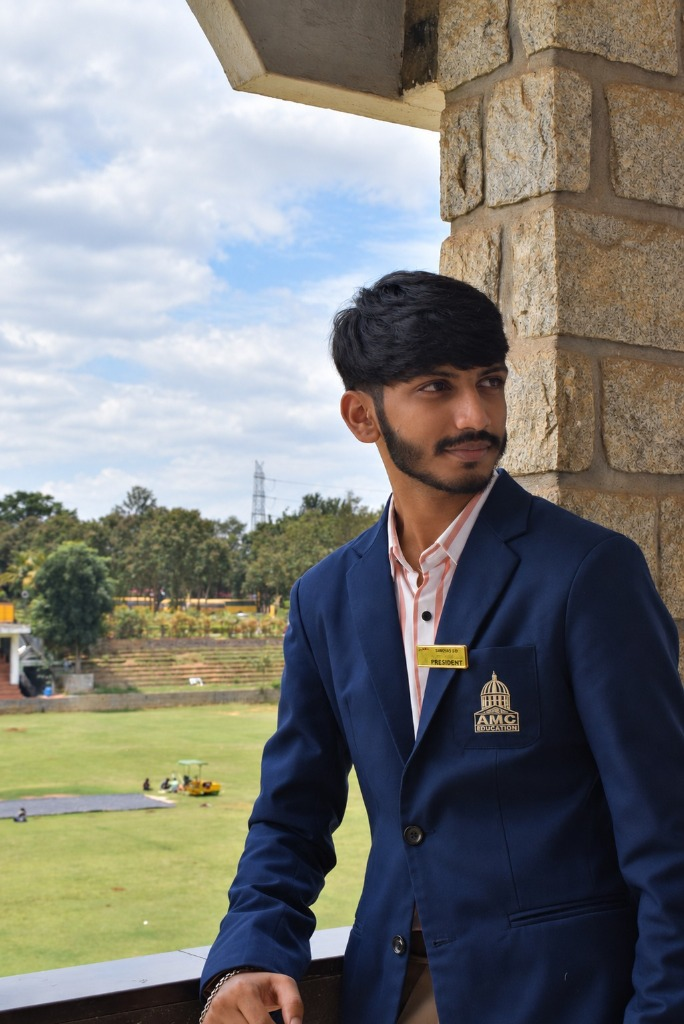
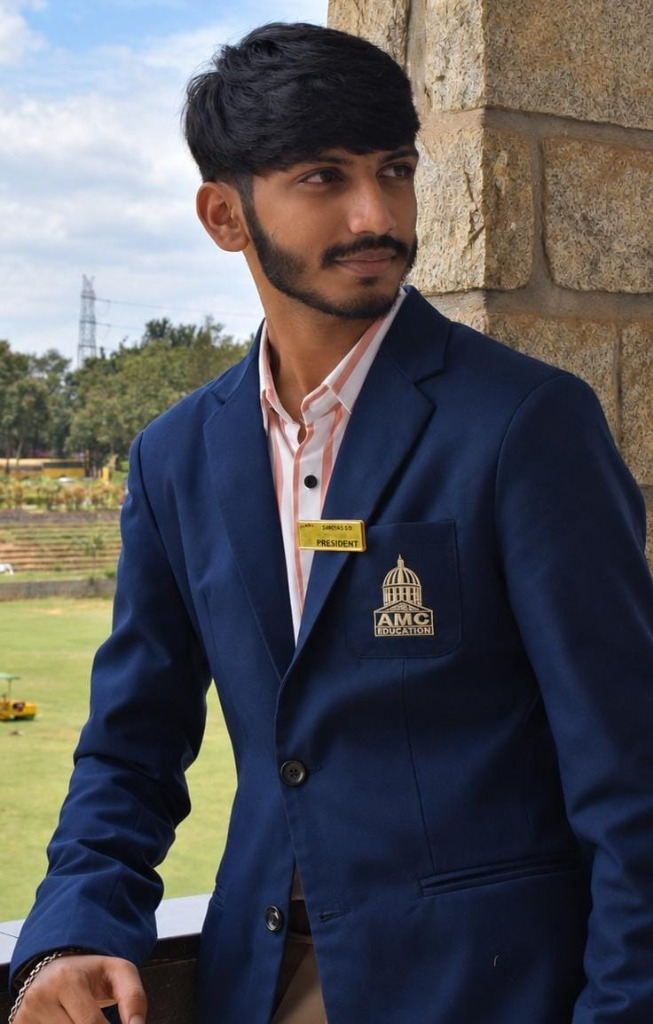
fix: update President name to Shreyas S D and replace with updated photo

diff --git a/public/index.html b/public/index.html
@@ -295,25 +295,25 @@
       </div>
 
       <div class="leadership-cards-grid">
-        <!-- 1st: Shreyas D -->
+        <!-- 1st: Shreyas S D -->
         <article class="leader-card">
           <div class="leader-card-img-wrap">
-            <img src="/assets/images/shreyas-d.jpg" alt="Shreyas D — President" class="leader-card-img leader-img-shreyas" loading="lazy">
+            <img src="/assets/images/shreyas-s-d.jpg" alt="Shreyas S D — President" class="leader-card-img leader-img-shreyas" loading="lazy">
           </div>
           <div class="leader-card-body">
             <div class="leader-badge-wrap">
               <span class="leader-role-badge badge-president">President</span>
             </div>
-            <h3 class="leader-name">Shreyas D</h3>
+            <h3 class="leader-name">Shreyas S D</h3>
             <p class="leader-subtext">NEURON NET Academic Club<br>Dept. of CSE (AI &amp; ML)</p>
             <div class="leader-contact-links">
-              <a href="https://www.linkedin.com/in/shreyas-s-d/" target="_blank" rel="noopener noreferrer" class="leader-contact-btn leader-linkedin-btn" title="Shreyas D on LinkedIn">
+              <a href="https://www.linkedin.com/in/shreyas-s-d/" target="_blank" rel="noopener noreferrer" class="leader-contact-btn leader-linkedin-btn" title="Shreyas S D on LinkedIn">
                 <svg width="13" height="13" viewBox="0 0 24 24" fill="currentColor">
                   <path d="M19 3a2 2 0 0 1 2 2v14a2 2 0 0 1-2 2H5a2 2 0 0 1-2-2V5a2 2 0 0 1 2-2h14m-.5 15.5v-5.3a3.26 3.26 0 0 0-3.26-3.26c-.85 0-1.84.52-2.28 1.3v-1.11h-2.79v8.37h2.79v-4.93c0-.77.62-1.4 1.39-1.4a1.4 1.4 0 0 1 1.4 1.4v4.93h2.75M6.46 10.9h2.77v8.37H6.46v-8.37M7.84 6.2a1.62 1.62 0 1 0 0 3.24 1.62 1.62 0 0 0 0-3.24Z"/>
                 </svg>
                 <span>LinkedIn</span>
               </a>
-              <a href="tel:+919686251627" class="leader-contact-btn leader-phone-btn" title="Call or WhatsApp Shreyas D">
+              <a href="tel:+919686251627" class="leader-contact-btn leader-phone-btn" title="Call or WhatsApp Shreyas S D">
                 <svg width="13" height="13" viewBox="0 0 24 24" fill="none" stroke="currentColor" stroke-width="2" stroke-linecap="round" stroke-linejoin="round">
                   <path d="M22 16.92v3a2 2 0 0 1-2.18 2 19.79 19.79 0 0 1-8.63-3.07 19.5 19.5 0 0 1-6-6 19.79 19.79 0 0 1-3.07-8.67A2 2 0 0 1 4.11 2h3a2 2 0 0 1 2 1.72 12.84 12.84 0 0 0 .7 2.81 2 2 0 0 1-.45 2.11L8.09 9.91a16 16 0 0 0 6 6l1.27-1.27a2 2 0 0 1 2.11-.45 12.84 12.84 0 0 0 2.81.7A2 2 0 0 1 22 16.92z"></path>
                 </svg>

diff --git a/public/css/style.css b/public/css/style.css
@@ -1092,7 +1092,7 @@ body {
 }
 
 .leader-img-shreyas {
-  object-position: center 20%;
+  object-position: center 10%;
 }
 
 .leader-img-gaurav {
